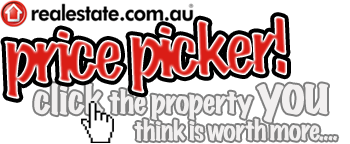
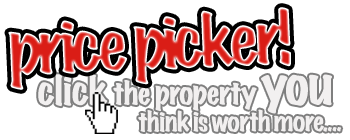
Remove the footer credits to REA and remove REA from the header image

diff --git a/public/adam/index.html b/public/adam/index.html
@@ -70,12 +70,6 @@
         </article>
       </section>
       <footer>
-        <strong>
-          <span>Powered by</span>
-          <a href="http://www.realestate.com.au">
-            <img src="/images/reaLogo.png" alt="realestate.com.au">
-          </a>
-        </strong>
         <small>
           <a href="https://graph.facebook.com/oauth/authorize?client_id=152928198072579&redirect_uri=http://apps.facebook.com/price-picker/&scope=publish_stream&type=user_agent&display=popup">Allow full access</a>
         </small>
